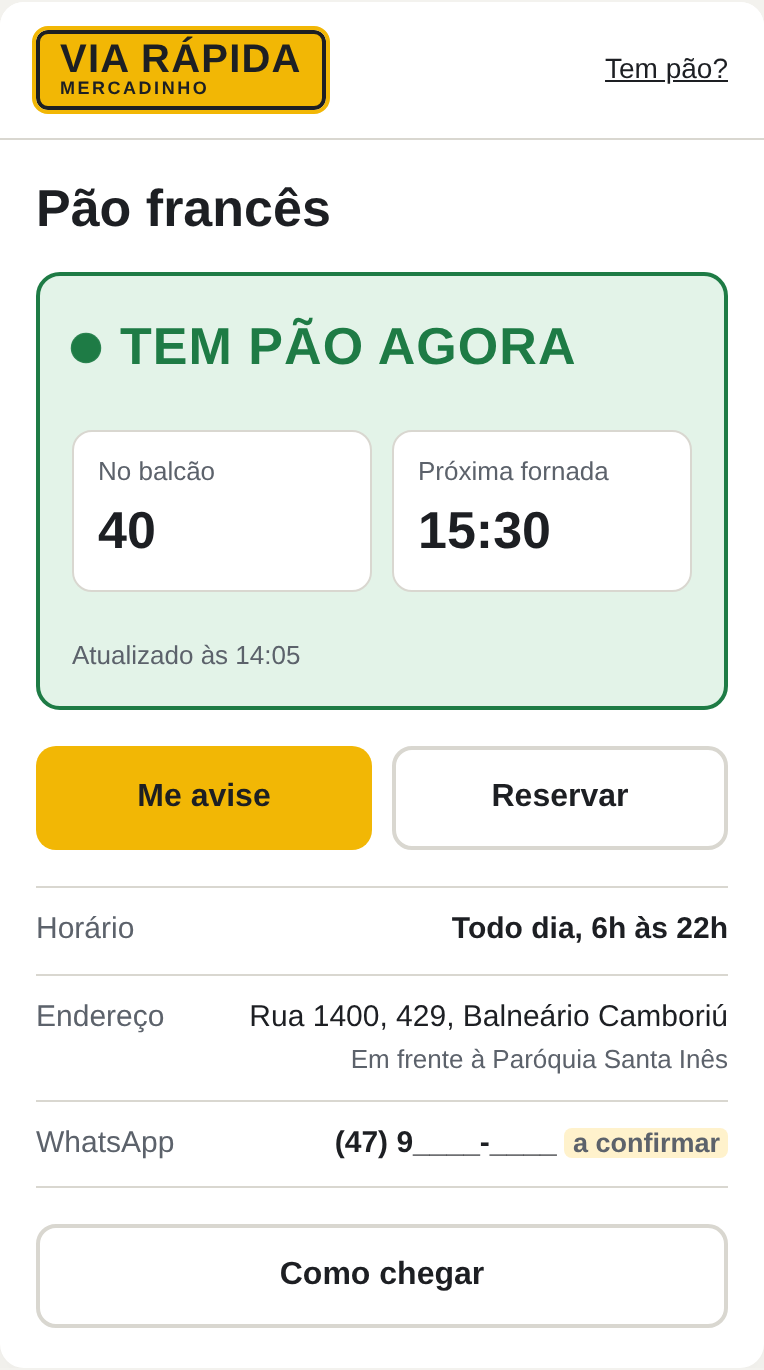
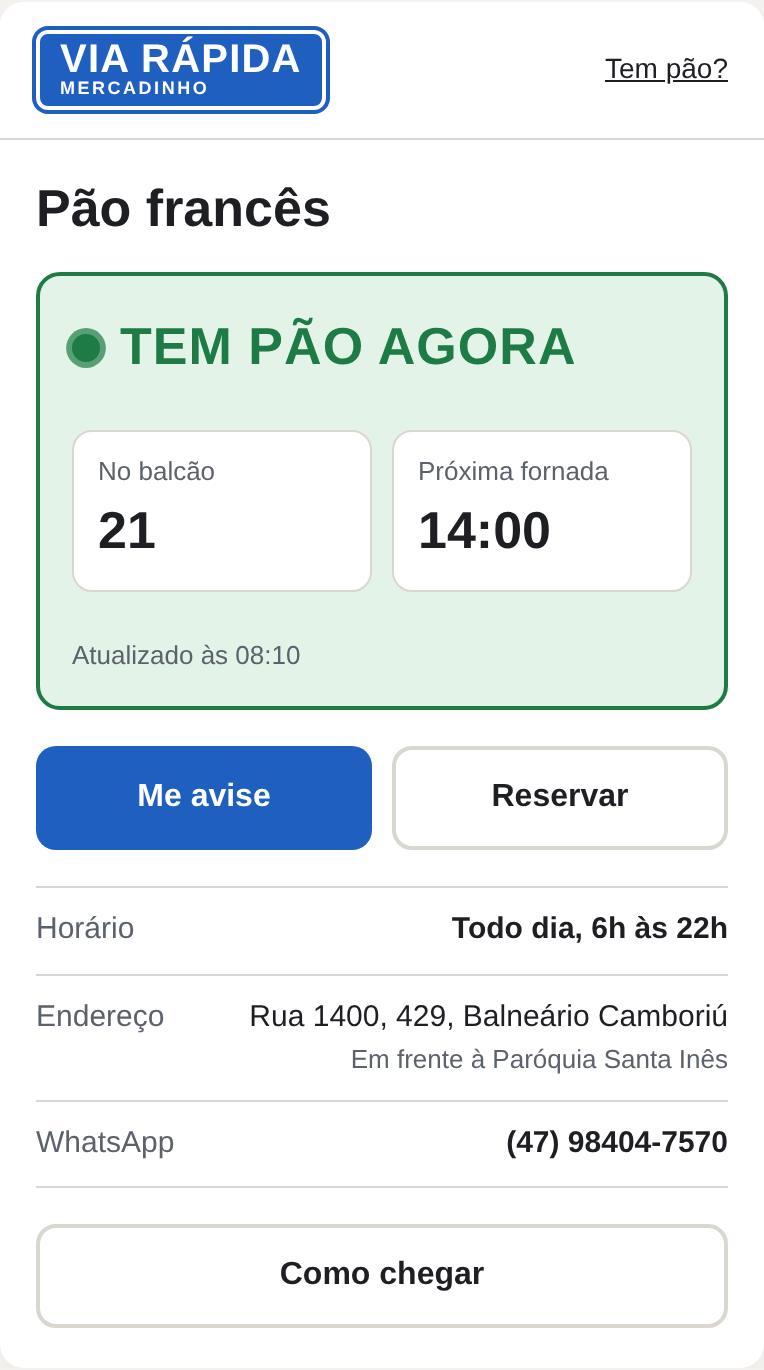
Add files via upload

diff --git a/index.html b/index.html
@@ -9,10 +9,11 @@
 <link rel="preconnect" href="https://fonts.googleapis.com">
 <link rel="stylesheet" href="https://fonts.googleapis.com/css2?family=Atkinson+Hyperlegible:wght@400;700&family=Overpass:wght@600;800;900&display=swap">
 <style>
-/* Layout: barra do protótipo + "palco" com telas públicas em moldura de celular e telas do vendedor em largura de desktop. Tema único claro: superfícies brancas, amarelo de placa só nos destaques. */
+/* Layout: barra do protótipo + "palco" com telas públicas em moldura de celular e telas do vendedor em largura de desktop. Tema único claro: azul e branco, escolhidos pela proprietária. */
 :root {
-  --sign: #F2B705;      /* amarelo de placa */
-  --sign-ink: #1D1F23;  /* texto sobre amarelo */
+  --sign: #1F5FBF;      /* azul da marca */
+  --sign-ink: #FFFFFF;  /* texto sobre azul */
+  --sign-soft: #E8F0FB; /* azul bem claro */
   --asphalt: #2B2F35;   /* texto forte */
   --soft: #F6F6F3;      /* superfícies claras secundárias */
   --chip: #EEEFEC;
@@ -108,7 +109,7 @@ input[type=text], input[type=email], input[type=password], input[type=time], inp
 .choice { display: grid; gap: 8px; border: 0; padding: 0; margin: 0; }
 .choice legend { font-weight: 700; margin-bottom: 4px; }
 .choice label { display: flex; gap: 10px; align-items: center; border: 2px solid var(--line); border-radius: 10px; padding: 10px 12px; font-weight: 400; cursor: pointer; }
-.choice label:has(input:checked) { border-color: var(--sign); background: var(--warn-bg); }
+.choice label:has(input:checked) { border-color: var(--sign); background: var(--sign-soft); }
 .stepper { display: flex; align-items: center; gap: 0; border: 2px solid var(--line); border-radius: 10px; overflow: hidden; width: max-content; }
 .stepper button { width: 48px; height: 48px; border: 0; background: var(--off-bg); color: var(--fg); font-size: 22px; cursor: pointer; }
 .stepper output { min-width: 56px; text-align: center; font-family: var(--display); font-weight: 800; font-size: 22px; font-variant-numeric: tabular-nums; }
@@ -192,7 +193,7 @@ td.num { font-variant-numeric: tabular-nums; }
 
 <script>
 const S = { // estado compartilhado entre painel e página pública
-  on: true, lote: 120, vendidas: 68, reservadas: 12, prox: '15:30', at: '14:05', limite: 15, reserva: null,
+  on: true, lote: 45, vendidas: 18, reservadas: 6, prox: '14:00', at: '08:10', limite: 10, reserva: null,
 };
 const disp = () => Math.max(0, S.lote - S.vendidas - S.reservadas);
 const SCREENS = [
@@ -236,7 +237,7 @@ const V = {
     <div class="info">
       <div><span>Horário</span><strong>Todo dia, 6h às 22h</strong></div>
       <div><span>Endereço</span><span style="text-align:right">Rua 1400, 429, Balneário Camboriú<br><span class="small">Em frente à Paróquia Santa Inês</span></span></div>
-      <div><span>WhatsApp</span><strong>(47) 9____-____ <span class="todo">a confirmar</span></strong></div>
+      <div><span>WhatsApp</span><strong>(47) 98404-7570</strong></div>
     </div>
     <a class="btn btn-ghost" href="https://www.google.com/maps/search/?api=1&query=Rua+1400+429+Balne%C3%A1rio+Cambori%C3%BA" target="_blank" rel="noopener">Como chegar</a>
   </div></div>`,
@@ -269,7 +270,7 @@ const V = {
         <label for="l2"><input type="radio" name="lote" id="l2" value="prox" ${disp() > 0 && S.on ? '' : 'checked'}>Próxima · ${esc(S.prox)}</label>
       </fieldset>
       <div style="display:grid;gap:4px"><span style="font-weight:700">Quantidade</span>
-        <div class="stepper"><button type="button" id="m4" aria-label="Diminuir">−</button><output id="q4">6</output><button type="button" id="p4" aria-label="Aumentar">+</button></div></div>
+        <div class="stepper"><button type="button" id="m4" aria-label="Diminuir">−</button><output id="q4">4</output><button type="button" id="p4" aria-label="Aumentar">+</button></div></div>
       <label for="n4">Nome<input id="n4" type="text" autocomplete="name" required></label>
       <label for="c4">E-mail ou telefone<input id="c4" type="text" autocomplete="email" required></label>
       <p class="small" id="err4" role="alert"></p>
@@ -278,13 +279,13 @@ const V = {
     </form>
   </div></div>`,
 
-  t05: () => { const r = S.reserva || { code: 'VR-0427', q: 6, lote: 'prox', nome: 'Maria' };
+  t05: () => { const r = S.reserva || { code: 'VR-0427', q: 4, lote: 'prox', nome: 'Maria' };
     return `<div class="phone">${head()}<div class="pad">
     <div class="success"><strong>Reservado, ${esc(r.nome)}.</strong><span>Mostre no caixa:</span><span class="code">${r.code}</span></div>
     <div class="info">
       <div><span>Quantidade</span><strong>${r.q}</strong></div>
       <div><span>Fornada</span><strong>${r.lote === 'atual' ? 'Agora' : esc(S.prox)}</strong></div>
-      <div><span>Retire em até</span><strong>30 min <span class="todo">a definir</span></strong></div>
+      <div><span>Retire em até</span><strong>60 min</strong></div>
     </div>
     <button class="btn btn-ghost btn-block" data-go="t02">Voltar</button>
   </div></div>`; },
@@ -309,7 +310,7 @@ const V = {
       <dl class="stats"><div><dt>Feitos</dt><dd>${S.lote}</dd></div><div><dt>Vendidos</dt><dd>${S.vendidas}</dd></div><div><dt>Reservados</dt><dd>${S.reservadas}</dd></div><div class="hl"><dt>No balcão</dt><dd>${disp()}</dd></div></dl></div>
     <div class="grid2">
       <div class="panel"><h3>Vender</h3><div class="quick">${[1, 2, 5, 10].map(n => `<button data-sell="${n}">−${n}</button>`).join('')}</div></div>
-      <div class="panel"><h3>Nova fornada</h3><form class="inline" id="f7a"><label for="q7">Quantidade<input id="q7" type="number" min="1" value="120"></label><button class="btn btn-sign" type="submit">Pronta</button></form></div>
+      <div class="panel"><h3>Nova fornada</h3><form class="inline" id="f7a"><label for="q7">Quantidade<input id="q7" type="number" min="1" value="45"></label><button class="btn btn-sign" type="submit">Pronta</button></form></div>
       <div class="panel"><h3>Próxima fornada</h3><form class="inline" id="f7b"><label for="h7">Horário<input id="h7" type="time" value="${esc(S.prox)}"></label><button class="btn btn-ghost" type="submit">Salvar</button></form></div>
     </div>`),
 
@@ -337,15 +338,15 @@ const V = {
 };
 
 const RES = [
-  { c: 'VR-0421', n: 'Exemplo: Maria S.', q: 6, l: '06:30', s: 'Retirada' },
-  { c: 'VR-0423', n: 'Exemplo: João P.', q: 10, l: '10:00', s: 'Não retirada' },
-  { c: 'VR-0425', n: 'Exemplo: Ana L.', q: 4, l: '14:00', s: 'Aguardando' },
-  { c: 'VR-0426', n: 'Exemplo: Carlos M.', q: 8, l: '14:00', s: 'Aguardando' },
+  { c: 'VR-0421', n: 'Exemplo: Maria S.', q: 4, l: '07:30', s: 'Retirada' },
+  { c: 'VR-0423', n: 'Exemplo: João P.', q: 10, l: '07:30', s: 'Não retirada' },
+  { c: 'VR-0425', n: 'Exemplo: Ana L.', q: 3, l: '14:00', s: 'Aguardando' },
+  { c: 'VR-0426', n: 'Exemplo: Carlos M.', q: 6, l: '14:00', s: 'Aguardando' },
 ];
 const DAYS = ['Qui', 'Sex', 'Sáb', 'Dom', 'Seg', 'Ter', 'Qua'];
-const WEEK = [312, 348, 401, 287, 296, 305, 330]; const PREV = 2050;
-const HOURS = [58, 71, 64, 40, 22, 15, 12, 18, 38, 52, 61, 49, 30, 17, 9, 5]; // 6h a 21h
-const RET = 41, NRET = 6;
+const WEEK = [84, 88, 90, 72, 80, 86, 89]; const PREV = 552;
+const HOURS = [4, 16, 13, 6, 3, 2, 1, 2, 14, 12, 6, 3, 1, 1, 0, 0]; // média por dia, 6h a 21h
+const RET = 23, NRET = 3;
 
 function bars(vals, labels, peaks) {
   const max = Math.max(...vals); const top3 = [...vals].sort((a, b) => b - a).slice(0, 3);
@@ -373,8 +374,8 @@ function bind() {
     const ok = $('#n3').value.trim() && /\S+@\S+\.\S+/.test($('#e3').value) && $('#c3').checked;
     if (!ok) { $('#err3').textContent = 'Preencha nome, e-mail e o aceite.'; return; }
     $('#f3wrap').innerHTML = `<div class="success"><strong>Pronto, ${esc($('#n3').value.trim())}.</strong><span>Você recebe um e-mail quando sair pão.</span></div><button class="btn btn-ghost btn-block" data-go="t02" style="margin-top:14px">Voltar</button>`; });
-  const f4 = $('#f4'); if (f4) { let q = 6; const upd = () => $('#q4').textContent = q;
-    $('#m4').onclick = () => { q = Math.max(1, q - 1); upd(); }; $('#p4').onclick = () => { q = Math.min(20, q + 1); upd(); };
+  const f4 = $('#f4'); if (f4) { let q = 4; const upd = () => $('#q4').textContent = q;
+    $('#m4').onclick = () => { q = Math.max(1, q - 1); upd(); }; $('#p4').onclick = () => { q = Math.min(10, q + 1); upd(); };
     f4.addEventListener('submit', e => { e.preventDefault(); const lote = (f4.querySelector('input[name=lote]:checked') || {}).value;
       if (!$('#n4').value.trim() || !$('#c4').value.trim()) { $('#err4').textContent = 'Preencha nome e contato.'; return; }
       if (lote === 'atual' && q > disp()) { $('#err4').textContent = `Só há ${disp()} no balcão. Reserve menos ou da próxima fornada.`; return; }
